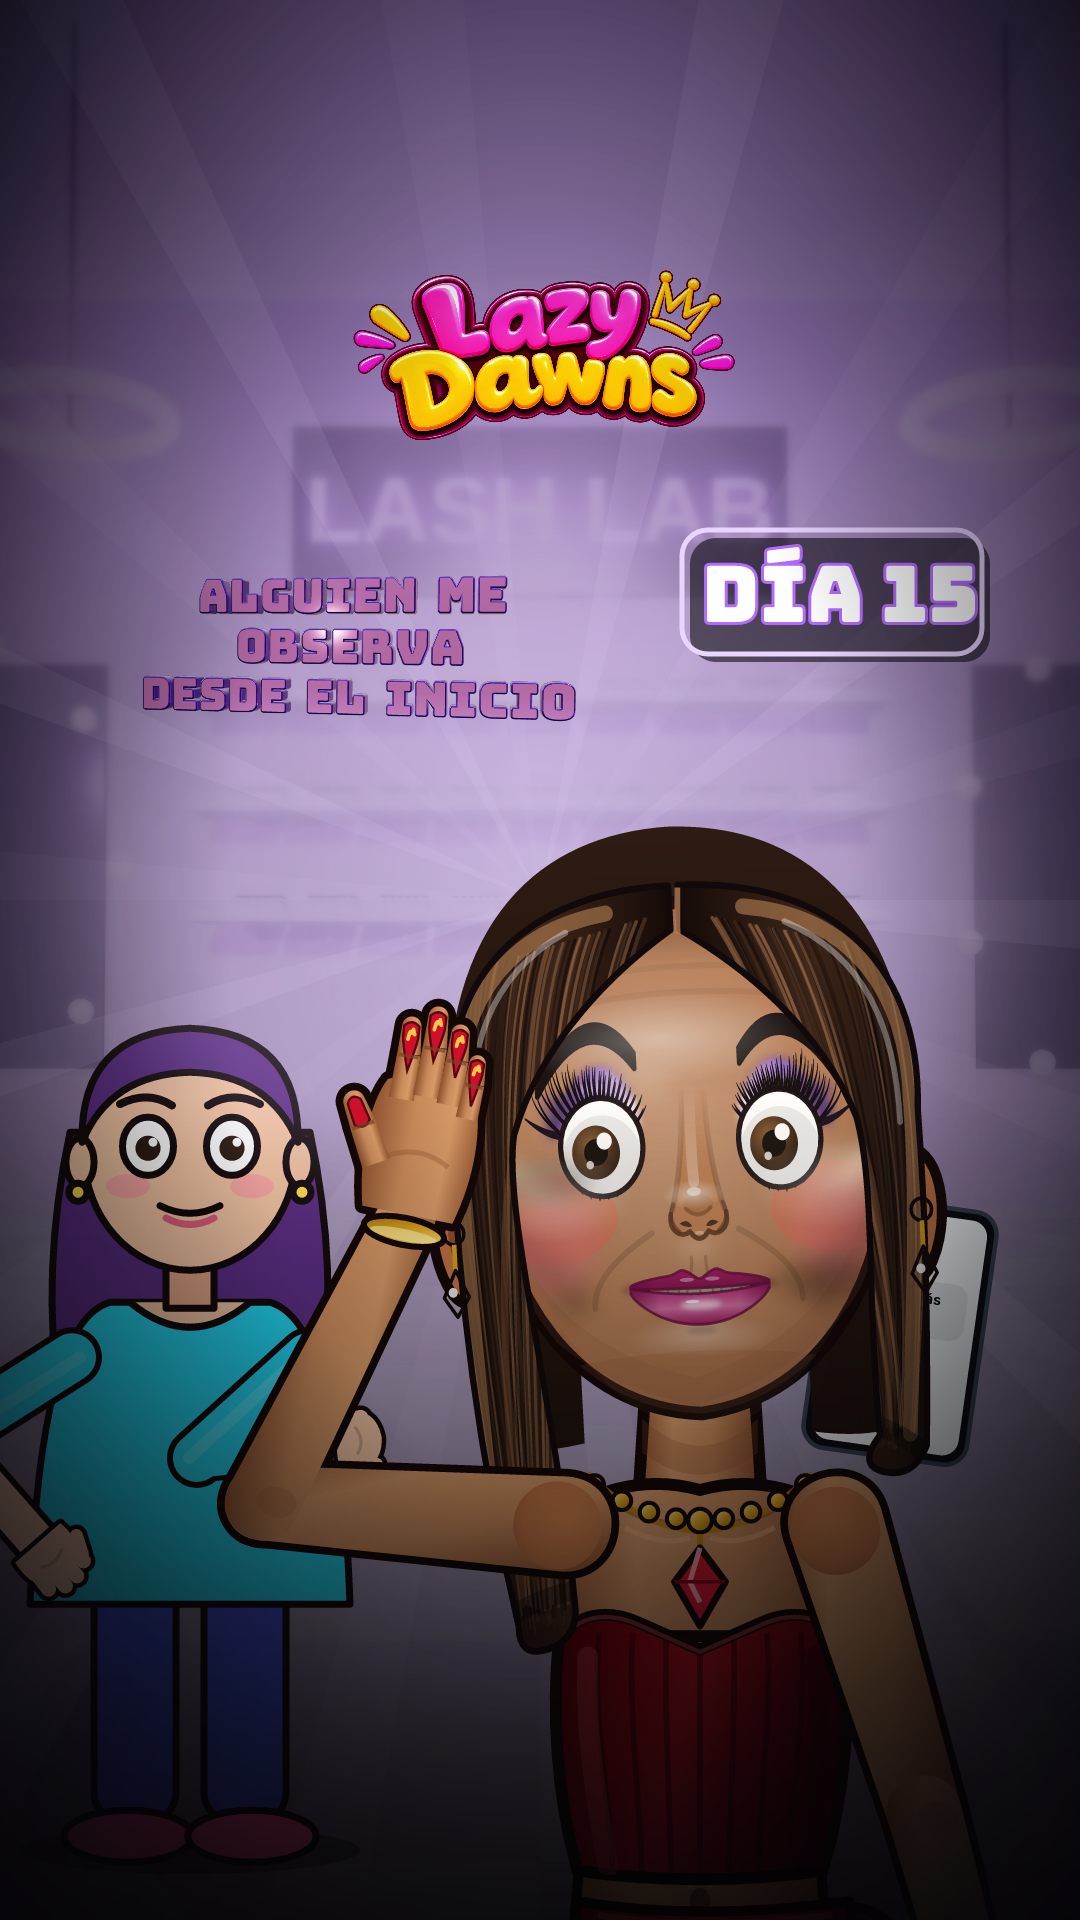
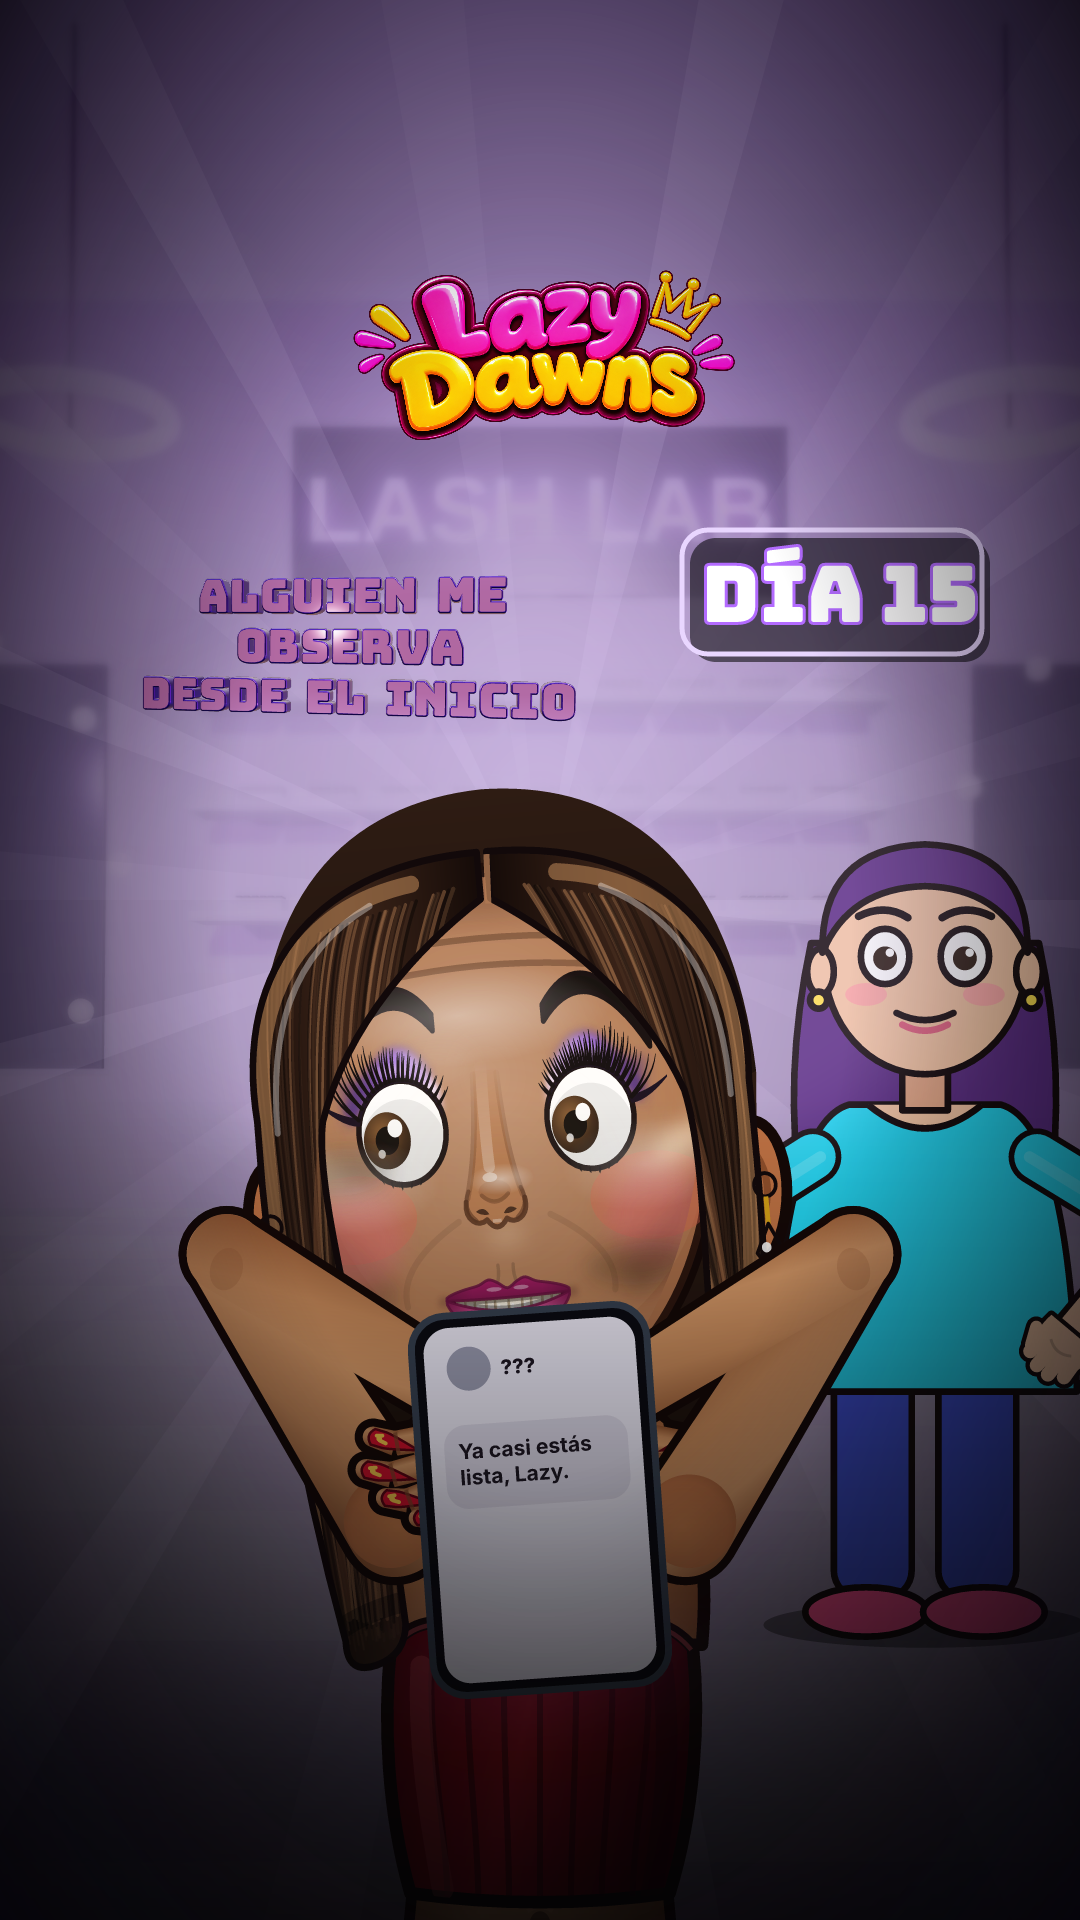
Day 15 cover redo (new pose), render progress, README rule
Claude-Session: https://claude.ai/code/session_01VDdbgAKTwVog87zPcVcZjJ

diff --git a/lazy-dawns/README.md b/lazy-dawns/README.md
@@ -236,3 +236,4 @@ Cada voto ofrece 2 opciones del banco de abajo (las que no hayan ganado se recic
 - Chats: un solo contacto por pantalla ("Número desconocido" con sus dos mensajes en orden).
 - Pista Mari: guarda su celular rápido mientras llega el mensaje desconocido (sin decir que es ella).
 - Votación: ojos o mandíbula (día 16). Revisión: cuadros cada segundo (86 cuadros) antes de entregar.
+- REGLA PORTADAS: cada portada con pose, reacción y relación con extras DIFERENTES a las anteriores (d14: saludo con mano junto a la cara; d15: susto sosteniendo celular con Mari sonriendo detrás).
